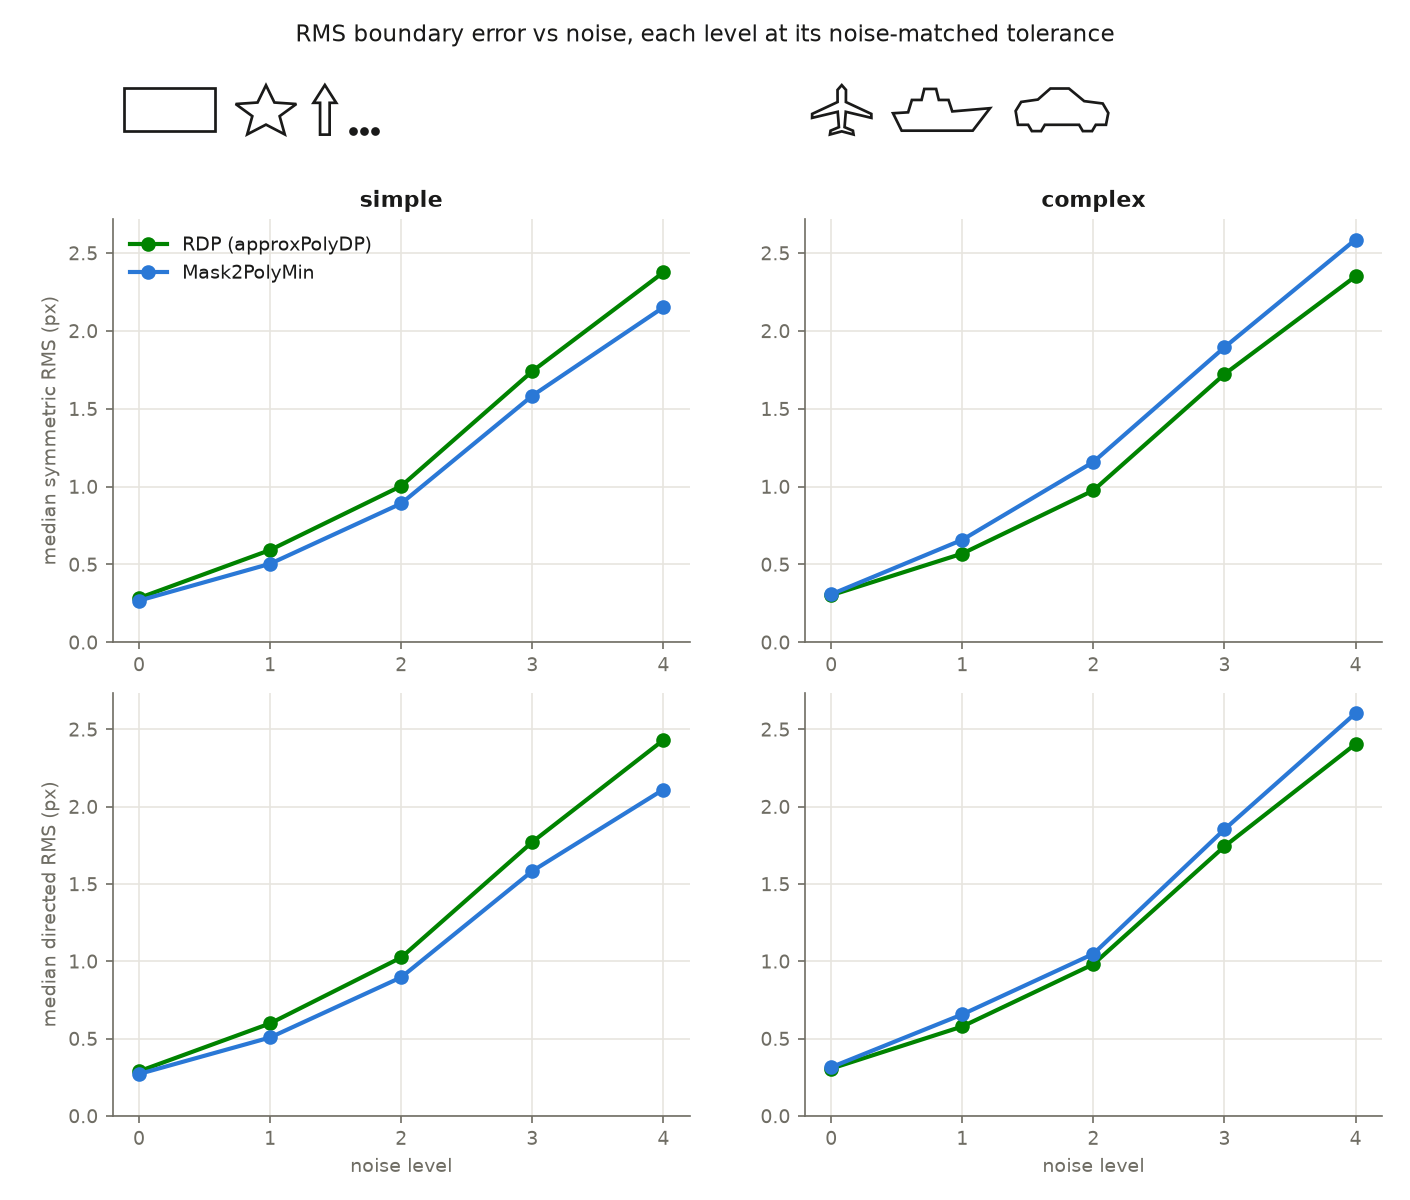
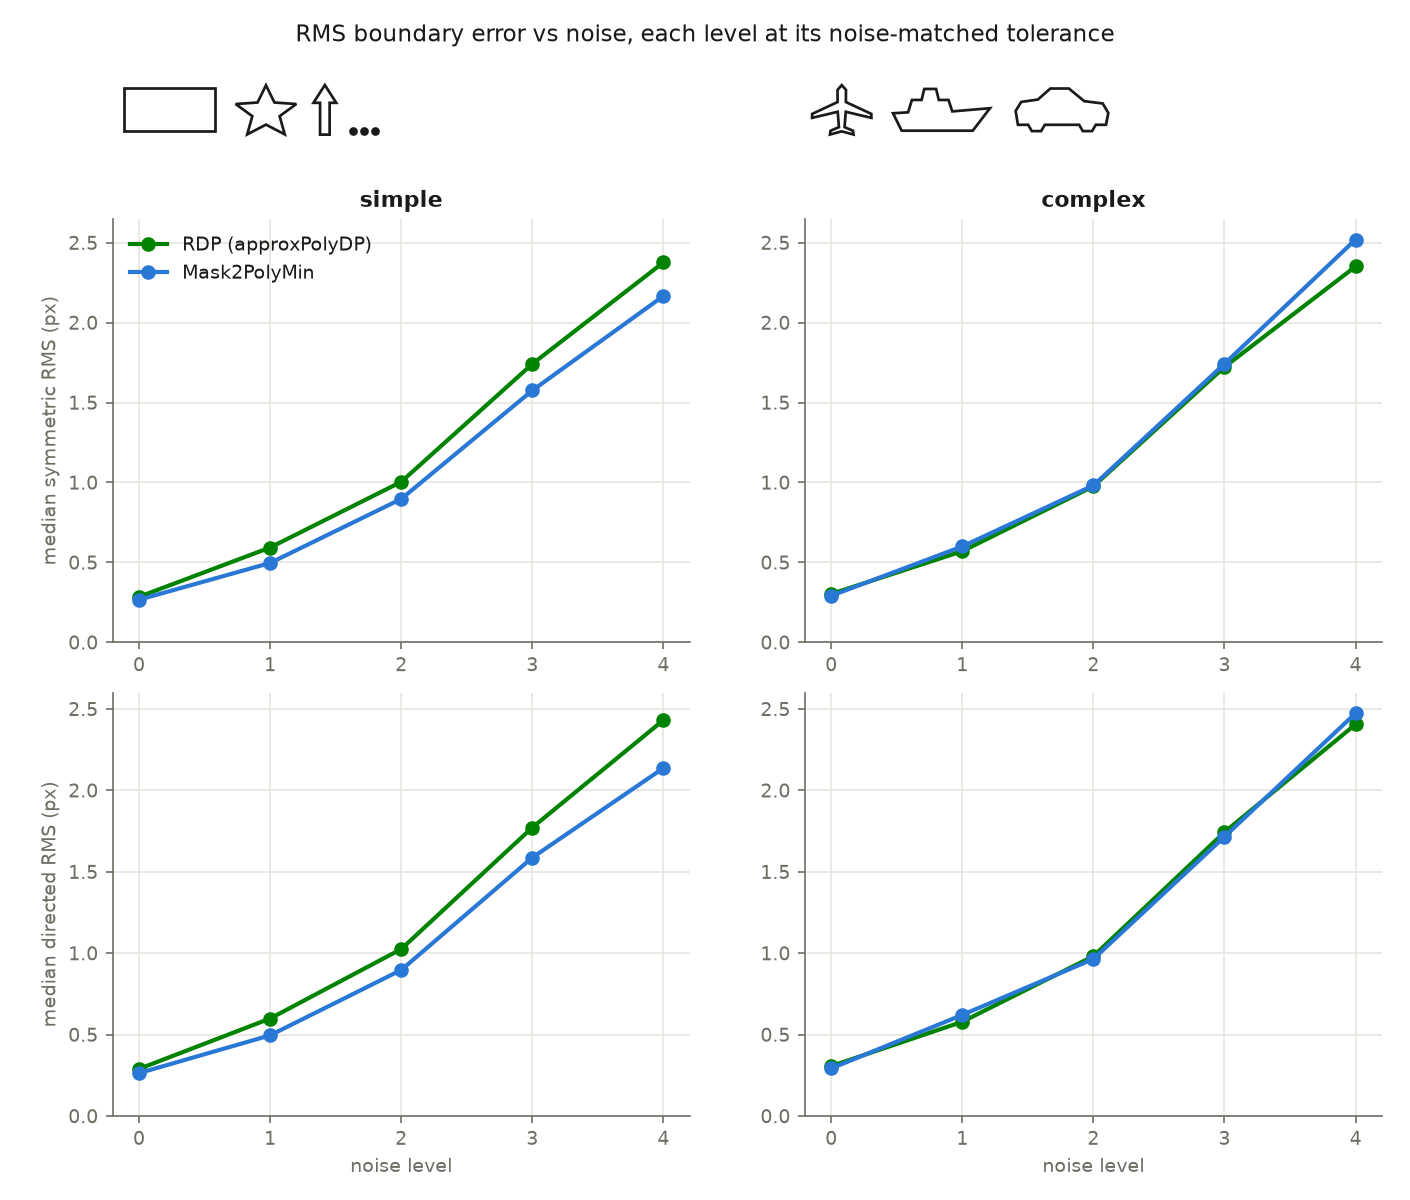
guard test with a patched _fit(); relax test_displaced_corners_strict; docs for segment_cost and CHANGELOG;

diff --git a/mask2polymin/fit_to_points_sequence.py b/mask2polymin/fit_to_points_sequence.py
@@ -35,7 +35,7 @@ class FitterConfig:
     - the standard deviation of how far the mask's boundary randomly wanders from its true edge.
     The 1.0 floor covers ordinary pixel-quantization jitter present even in a "clean" mask. '''
     # tolerance_sq gates everything:
-    #   - split eligibility and collinear merge: a segment's mean and max squared point distance must stay within it;
+    #   - split eligibility: a segment is split when its mean or max squared point distance exceeds it;
     #   - global stop: the average SSE per segment must stay within it, i.e. each segment gets a budget of ~one tolerance-sized outlier;
     #   - Energy: an orphan costs tolerance_sq and a segment segment_cost · tolerance_sq.
     #
@@ -50,7 +50,9 @@ class FitterConfig:
     ''' Plot the segmentation after every split (requires matplotlib). '''
     plot_intermediate_steps: bool = False
 
-    ''' Cost of one segment in Energy, in units of tolerance².
+    ''' Cost of one segment in the Energy, in units of tolerance². Higher values give fewer segments.
+    Energy = SSE + tolerance² · orphans_count + segment_cost · tolerance² · segments_count.
+    fit() and refit() keep a split, merge or junction move only if it lowers the Energy.
     refit() never returns a higher Energy than its start. '''
     segment_cost: float = 2.0
 

diff --git a/README.md b/README.md
@@ -64,6 +64,10 @@ python example_usage.py
 **rule of thumb:** `tolerance ≈ max(1.0, jitter_amp)`, where `jitter_amp` how noisy the segmentation is - the standard deviation of how far the mask's boundary randomly wanders from its true edge.
 The `1.0` floor covers ordinary pixel-quantization jitter present even in a "clean" mask.
 
+**segment_cost** (default `2`): the cost of one segment, in units of `tolerance²`. A split, merge or junction move is kept only if it lowers the Energy:\
+`Energy = SSE + tolerance² · orphans_count + segment_cost · tolerance² · segments_count`\
+An orphan costs as much as a point at distance `tolerance`. Higher values give fewer segments.
+
 **rank_split_by_max_deviation** (default `False`)
 Pass True to slightly improve simpler shapes (low segments count, enough space between opposite sides). Can damage complex shapes.
 
@@ -109,7 +113,7 @@ Notes for the two common contour sources:
 The implementation is optimized, uses NumPy broadcasting.
 
 Benchmarked against RDP (`cv2.approxPolyDP`) on synthetic shapes across noise levels
-([performance_test/](performance_test/)): comparable on most fidelity metrics (IoU, RMS, Hausdorff). But Mask2PolyMin avoids corner-cutting bias — see [corner_bias](performance_test/charts/fig6_corner_bias.png), [corner_bias comparison](performance_test/charts/comparison_corner_bias.png) and perimeter shrinkage in [perimeter_ratio](performance_test/charts/fig8_perimeter.png), [perimeter_ratio comparison](performance_test/charts/comparison_perimeter.png). Tradeoff: Mask2PolyMin is far slower — although not dramatically slow in absolute terms: 63 ms per contour on average, even on a weak laptop (Intel i5-12450H, UHD Graphics), single-threaded — see [wall-clock time](performance_test/charts/fig11_walltime.png).
+([performance_test/](performance_test/)): comparable on most fidelity metrics (IoU, RMS, Hausdorff). But Mask2PolyMin avoids corner-cutting bias — see [corner_bias](performance_test/charts/fig6_corner_bias.png), [corner_bias comparison](performance_test/charts/comparison_corner_bias.png) and perimeter shrinkage in [perimeter_ratio](performance_test/charts/fig8_perimeter.png), [perimeter_ratio comparison](performance_test/charts/comparison_perimeter.png). Tradeoff: Mask2PolyMin is far slower — although not dramatically slow in absolute terms: 12 ms per contour on average, even on a weak laptop (Intel i5-12450H, UHD Graphics), single-threaded — see [wall-clock time](performance_test/charts/fig11_walltime.png).
 
 <img src="https://raw.githubusercontent.com/AlexanderHaritonov/Mask2PolyMin/main/docs/collage_noise3_fitted.png" alt="10 synthetic shapes at noise level 3 with fitted polygons" width="800">
 
@@ -122,7 +126,7 @@ Benchmarked against RDP (`cv2.approxPolyDP`) on synthetic shapes across noise le
   ```
   - starts from `previous.segments`.
   - a segment marked `frozen = True`, with its line set by the caller is never refitted, split or merged — only its junctions slide.
-  - probable energy for the outer loop: ```E = Σ_faces Σ_segments sse  +  tolerance² · orphans_count  +  λ · segments_count, λ ≈ 15 · tolerance²```
+  - energy for the outer loop: the sum of the faces' Energies.
 
 - explore line fitting with Theil–Sen and respectively the Median or Mean Absolute Error as stop criterion ?
 

diff --git a/CHANGELOG.md b/CHANGELOG.md
@@ -2,6 +2,17 @@
 
 All notable changes to this project are documented here.
 
+## [Unreleased]
+
+### Changed
+- **Breaking:** `FitterConfig.apply_local_defect_margin` removed.
+- `fit()` results change: a split, merge or junction move is kept only if it lowers the Energy (see `segment_cost` in the README).
+  On the benchmark (1950 contours): corner recall 0.522 → 0.551, Hausdorff 4.57 → 4.30, RMS 1.35 → 1.30, wall time 63 → 12 ms per contour.
+- `loss` of a fitted line is the plain sum of squared distances; it was scaled by n/(n−1).
+
+### Added
+- `FitterConfig.segment_cost` (default `2`): the cost of one segment in the Energy, in units of `tolerance²`.
+
 ## [0.2.0] - 2026-07-26
 
 ### Changed
